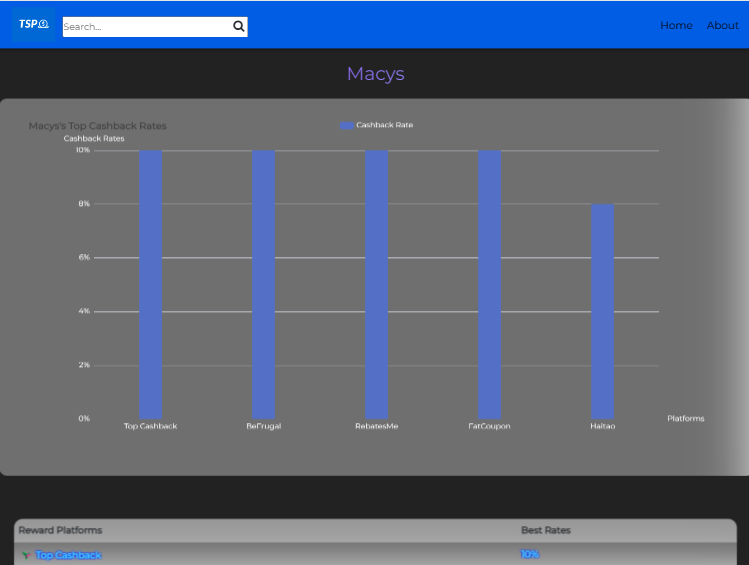
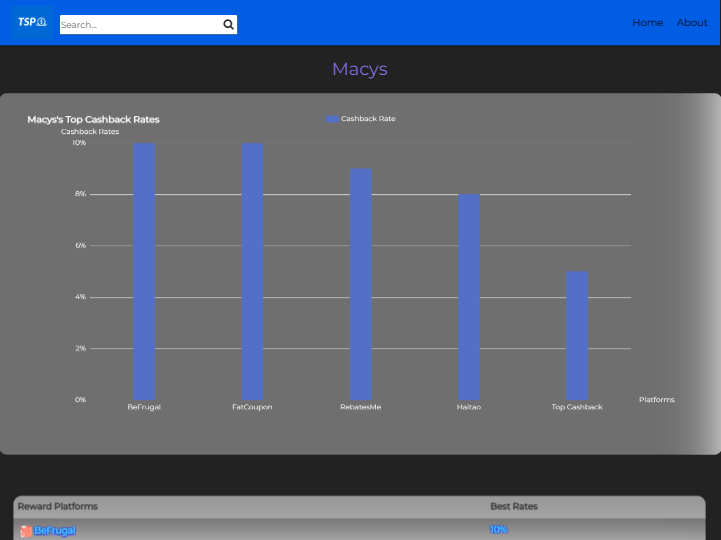
Updated Files

diff --git a/templates/rates.html b/templates/rates.html
@@ -98,7 +98,10 @@
         var option = {
             baseOption: {
                 title: {
-                    color: "white",
+                    textStyle: {
+                        color: "white",
+                    },
+                    borderColor: "#ccc",
                     text: name + "'s Top Cashback Rates"
                 },
                 textStyle: {

diff --git a/scraper.py b/scraper.py
@@ -2,7 +2,7 @@ from flask import Flask, render_template
 from selenium import webdriver
 from selenium.webdriver.chrome.options import Options
 import chromedriver_autoinstaller
-
+import requests
 import re
 
 chromedriver_autoinstaller.install()
@@ -25,22 +25,21 @@ def index():
 
     rate_box = driver.find_element_by_css_selector('div.fl div.fl table.cbm2 tbody')
 
-    for item in rate_box.find_elements_by_css_selector('tr'):
-        if (item.text.find('%') != -1):
-            tmp = item.text.split("%")[0]
-            tmp = re.sub("[^A-Z.a-z ]", "", tmp)
-            tmp = tmp[::-1].replace('.'[::-1], '', tmp.count('.')-1)[::-1]
-            tmp = tmp[:-1]
-            providers.append(tmp)
-        else: continue
+    # Use a list comprehension to find all the rows that contain a % sign
+    rows = [row for row in rate_box.find_elements_by_css_selector('tr') if '%' in row.text]
 
-        for cell2 in item.find_elements_by_css_selector('td:nth-child(3) a'):
-            if (cell2.text.find('%') != -1):
-                tmp = cell2.text.split("%")[0]
-                rates.append(tmp + '%')
-            else: continue
+    for item in rows:
+        tmp = item.text.split("%")[0]
+        tmp = re.sub("[^A-Z.a-z ]", "", tmp)
+        tmp = tmp[:-1]
+        providers.append(tmp)
 
-    return render_template('index.html', len = len(rates), rates = rates, providers = providers)
+        cell2 = item.find_element_by_css_selector('td:nth-child(3) a')
+        if '%' in cell2.text:
+            tmp = cell2.text.split("%")[0]
+            rates.append(tmp + '%')
+
+    return render_template('index.html', len=len(rates), rates=rates, providers=providers)
 
 @app.route('/rates/<store>', methods=['GET'])
 def ratepg(store):
@@ -57,11 +56,7 @@ def ratepg(store):
     tbody = driver.find_element_by_css_selector('div.half.fl table tbody')
 
     for row in tbody.find_elements_by_tag_name('tr'):
-        if ("Up to" in row.text):
-            continue
-        if ("up to" in row.text):
-            continue
-        if ("$" in row.text):
+        if ("Up to" in row.text or "up to" in row.text or "$" in row.text):
             continue
         if (row.text.find('%') != -1):
             tmp = row.text.split("%")[0]
@@ -72,11 +67,7 @@ def ratepg(store):
         else: continue
 
         for cell2 in row.find_elements_by_css_selector('td.l span'):
-            if ("Up to" in row.text):
-                continue
-            if ("up to" in row.text):
-                continue
-            if ("$" in row.text):
+            if ("Up to" in row.text or "up to" in row.text or "$" in row.text):
                 continue
             if (cell2.text.find('%') != -1):
                 tmp = cell2.text.split(' ')[0]
@@ -110,20 +101,18 @@ def ratepg(store):
 
     rate_box = driver.find_element_by_css_selector('div.fl div.fl table.cbm2 tbody')
 
-    for item in rate_box.find_elements_by_css_selector('tr'):
-        if (item.text.find('%') != -1):
-            tmp = item.text.split("%")[0]
-            tmp = re.sub("[^A-Z.a-z ]", "", tmp)
-            tmp = tmp[::-1].replace('.'[::-1], '', tmp.count('.')-1)[::-1]
-            tmp = tmp[:-1]
-            store_providers.append(tmp)
-        else: continue
+    rows = [row for row in rate_box.find_elements_by_css_selector('tr') if '%' in row.text]
 
-        for cell2 in item.find_elements_by_css_selector('td:nth-child(3) a'):
-            if (cell2.text.find('%') != -1):
-                tmp = cell2.text.split("%")[0]
-                store_rates.append(tmp + '%')
-            else: continue
+    for item in rows:
+        tmp = item.text.split("%")[0]
+        tmp = re.sub("[^A-Z.a-z ]", "", tmp)
+        tmp = tmp[:-1]
+        store_providers.append(tmp)
+
+        cell2 = item.find_element_by_css_selector('td:nth-child(3) a')
+        if '%' in cell2.text:
+            tmp = cell2.text.split("%")[0]
+            store_rates.append(tmp + '%')
 
     return render_template('rates.html', len = len(rates), rates = rates,
     providers = providers,  img_logo = img_logo, links = links, imgs = imgs, store = store,
@@ -139,20 +128,19 @@ def aboutpg():
 
     rate_box = driver.find_element_by_css_selector('div.fl div.fl table.cbm2 tbody')
 
-    for item in rate_box.find_elements_by_css_selector('tr'):
-        if (item.text.find('%') != -1):
-            tmp = item.text.split("%")[0]
-            tmp = re.sub("[^A-Z.a-z ]", "", tmp)
-            tmp = tmp[::-1].replace('.'[::-1], '', tmp.count('.')-1)[::-1]
-            tmp = tmp[:-1]
-            store_providers.append(tmp)
-        else: continue
+    # Use a list comprehension to find all the rows that contain a % sign
+    rows = [row for row in rate_box.find_elements_by_css_selector('tr') if '%' in row.text]
 
-        for cell2 in item.find_elements_by_css_selector('td:nth-child(3) a'):
-            if (cell2.text.find('%') != -1):
-                tmp = cell2.text.split("%")[0]
-                store_rates.append(tmp + '%')
-            else: continue
+    for item in rows:
+        tmp = item.text.split("%")[0]
+        tmp = re.sub("[^A-Z.a-z ]", "", tmp)
+        tmp = tmp[:-1]
+        store_providers.append(tmp)
+
+        cell2 = item.find_element_by_css_selector('td:nth-child(3) a')
+        if '%' in cell2.text:
+            tmp = cell2.text.split("%")[0]
+            store_rates.append(tmp + '%')
 
     return render_template('about.html', store_rates = store_rates, store_providers = store_providers)
 

diff --git a/README.md b/README.md
@@ -58,6 +58,3 @@ Screenshots
 ### About Page
 
 ![AboutTSP](https://github.com/teateatime/TheSavingPortal/blob/main/static/screenshots/TSP_AboutPage.png)
-
-## Problems
-* Site hosting
